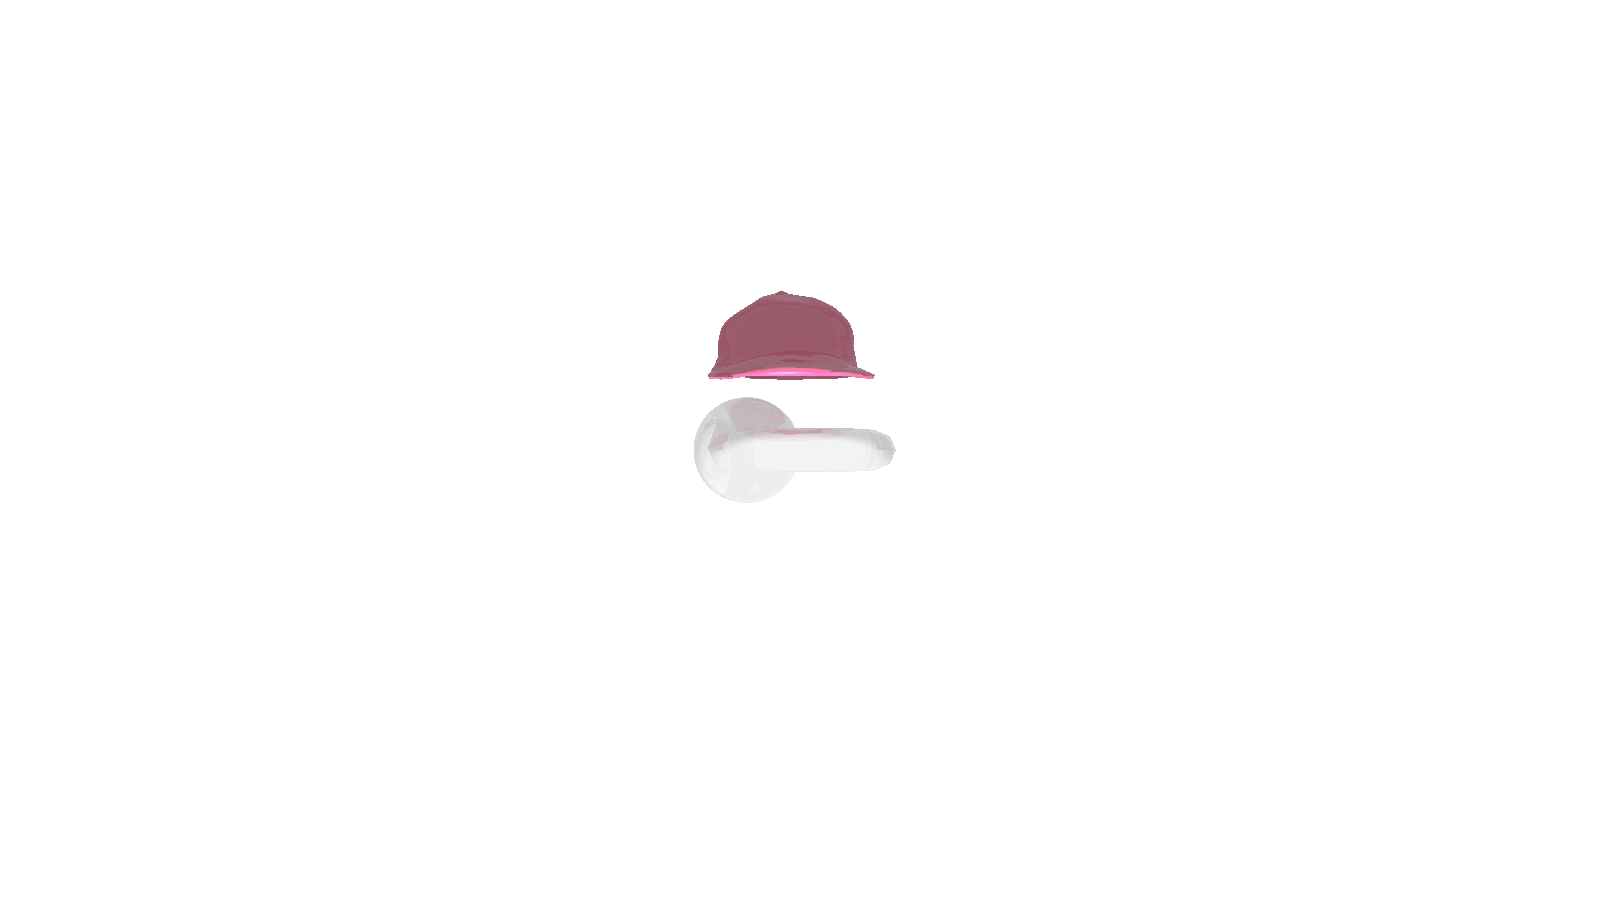
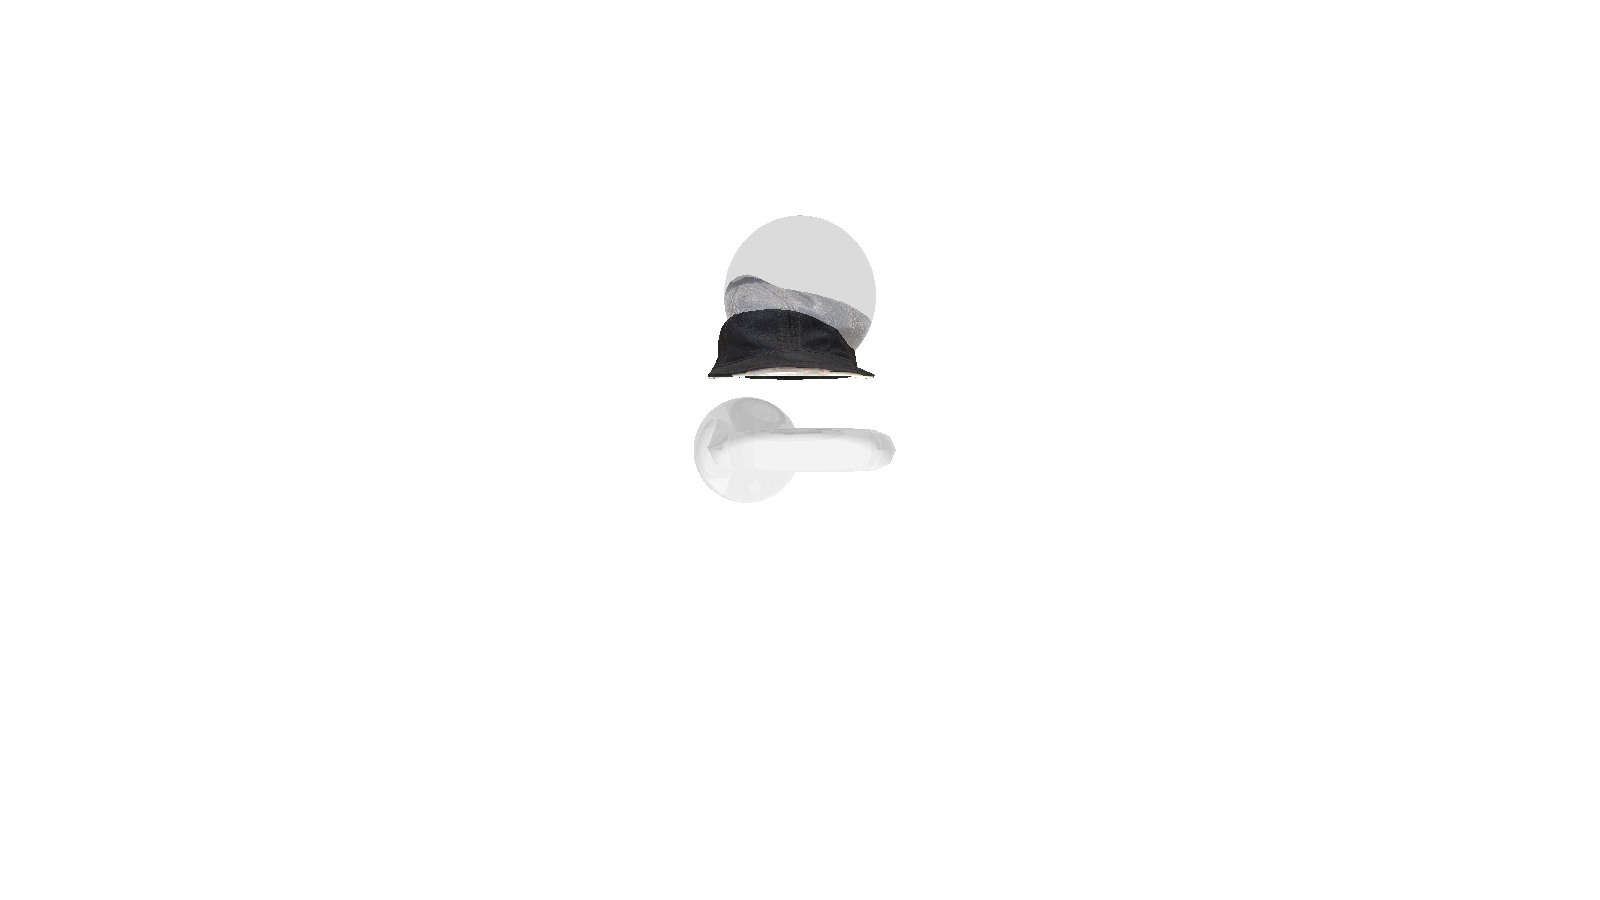
Uploading working textures i think, i just have to see how to properly scale them

Changed region(s): [[0.4375, 0.2178, 0.5625, 0.4356]]

diff --git a/RaytracerV07/src/edu/up/isgc/raytracer/lighting/Light.java b/RaytracerV07/src/edu/up/isgc/raytracer/lighting/Light.java
@@ -1,5 +1,6 @@
 package edu.up.isgc.raytracer.lighting;
 
+import edu.up.isgc.raytracer.Intersection;
 import edu.up.isgc.raytracer.Vector3D;
 import edu.up.isgc.raytracer.shapes.Object3D;
 import edu.up.isgc.raytracer.world.Camera;
@@ -72,8 +73,9 @@ public abstract class Light {
     }
 
 
-    public static Color calculateColor(Vector3D N, Vector3D point, Object3D object) {
+    public static Color calculateColor(Vector3D N, Vector3D point, Object3D object, Intersection intersection) {
         Color finalColor = new Color(0, 0, 0);
+        Color pointColor = intersection.color;
         float ks = 1f;
         float p = 100f;
         float ka = 0.1f;  // Ambient constant
@@ -104,9 +106,9 @@ public abstract class Light {
             }
 
             // Individual components
-            Color ambient  = Light.shine(light.getColor(), object.getColor(), ambientIntensity, true);
-            Color diffuse  = Light.shine(light.getColor(), object.getColor(), lambertian, true);
-            Color specular = Light.shine(light.getColor(), object.getColor(), blinn, false); // specular is independent of object color
+            Color ambient  = Light.shine(light.getColor(), pointColor, ambientIntensity, true);
+            Color diffuse  = Light.shine(light.getColor(), pointColor, lambertian, true);
+            Color specular = Light.shine(light.getColor(), pointColor, blinn, false); // specular is independent of object color
 
             // Combine them
             Color lightContribution = new Color(
@@ -202,6 +204,7 @@ public abstract class Light {
 
         return finalColor;
     }
+
     public abstract Vector3D getDirection(Vector3D point);
     public Vector3D getDirection() { return this.getDirection(Vector3D.getZero()); }
 
@@ -253,70 +256,6 @@ public abstract class Light {
         );
     }
 
-
-
-
-
-    public static Vector3D ericson(Vector3D point, Vector3D v1, Vector3D v2, Vector3D v3, Vector3D n1, Vector3D n2, Vector3D n3) {
-
-        Vector3D e1 = Vector3D.subtract(v1,v2);
-        Vector3D e2 = Vector3D.subtract(v1,v3);
-        Vector3D eP = Vector3D.subtract(v1,point);
-
-        /*
-        Vector3D triNormal = Vector3D.crossProduct(e1,e2).normalize();
-        Vector3D viewDir = Vector3D.subtract(point, Camera.getCameraPosition()).normalize();
-
-         */
-
-        double d11 = e1.dot(e1);
-        double d12 = e1.dot(e2);
-        double d22 = e2.dot(e2);
-        double d1P = e1.dot(eP);
-        double d2P = e2.dot(eP);
-
-        double denominator = (d11*d22)-(d12*d12);
-        if (Math.abs(denominator) < 1e-10) return Vector3D.getZero();
-
-        double v = ( (d22*d1P)-(d12*d2P) )/denominator;
-        double w = ( (d11*d2P)-(d12*d1P) )/denominator;
-        double u = 1.0-v-w;
-
-
-        /*
-
-        v = clamp(v, 0, 1);
-        w = clamp(w, 0, 1);
-        u = clamp(u, 0, 1);
-         */
-        //System.out.println("u: " + u + " v: " + v + " w: " + w);
-
-        /*
-
-        double den = ( (v2.y - v3.y) * (v1.x - v3.x) ) + ( (v3.x - v2.x) * (v1.y - v3.y) );
-        double v = (( (v2.y - v3.y) * (point.x - v3.x) ) + ( (v3.x - v2.x) * (point.y - v3.y) )) / den;
-        double w = (( (v3.y - v1.y) * (point.x - v3.x) ) + ( (v1.x - v3.x) * (point.y - v3.y) )) / den;
-        double u = 1 - v - w;
-
-         */
-
-
-        System.out.println("u:" + u + " v:" + v + " w:" + w);
-        //if(u < 0 || u > 1 || v < 0 || v > 1 || w < 0 || w > 1) return Vector3D.getZero();
-
-        Vector3D uN = n1.scale(u);
-        Vector3D vN = n2.scale(v);
-        Vector3D wN = n3.scale(w);
-
-        //return uN.add(vN).add(wN).normalize();
-        //return n1.scale(u).add(n2.scale(v)).add(n3.scale(w)).normalize();
-        //return n1.add(n2).add(n3).scale(1.0/3.0).normalize();
-
-        double texU = u * n1.x + v * n2.x + w * n3.x;
-        double texV = u * n1.y + v * n2.y + w * n3.y;
-
-        return new Vector3D(texU, texV, 0);
-    }
 
     public static ArrayList<Light> getLights(){return Light.lights;}
 }

diff --git a/RaytracerV07/src/edu/up/isgc/raytracer/Raytracer.java b/RaytracerV07/src/edu/up/isgc/raytracer/Raytracer.java
@@ -11,7 +11,9 @@ import edu.up.isgc.raytracer.shapes.models.Polygon;
 import edu.up.isgc.raytracer.world.Camera;
 import edu.up.isgc.raytracer.world.Scene;
 
+import javax.imageio.ImageIO;
 import java.awt.Color;
+import java.awt.image.BufferedImage;
 import java.io.File;
 import java.io.FileWriter;
 import java.io.IOException;
@@ -21,7 +23,7 @@ import java.io.IOException;
  * Handles scene setup, camera configuration, and image generation.
  */
 public class Raytracer {
-    public static void main(String[] args) {
+    public static void main(String[] args) throws IOException {
         // Image settings
         int width = 1600;
         int height = 900;
@@ -35,13 +37,16 @@ public class Raytracer {
         // Create scene with objects
         Scene scene = new Scene(Color.white);
         scene.addObject(new Sphere(new Vector3D(0.7, 0, 0), 0.7, Color.lightGray,  0.4, 0.7));
-        //scene.addObject(new Sphere(new Vector3D(0, 0, 0), 1, Color.lightGray,  0.4, 1));
+        scene.addObject(new Sphere(new Vector3D(0, 2, 0), 1, Color.lightGray,  0.4, 0.7));
         //scene.addObject(new Sphere(new Vector3D(0, 0, 30), 20, Color.yellow,  0, 0));
         //scene.addObject(new Sphere(new Vector3D(0, 0, 0), 50, Color.CYAN,  2.77, 0));
         //scene.addObject(new Sphere(new Vector3D(0, -1, 0), 1.5, Color.yellow));
         //scene.addObject(new Triangle(new Vector3D(0.4, 0, -3), new Vector3D(0.4, 0.5, -3), new Vector3D(1.1, 0, -3), Color.GREEN));
 
-        Polygon polygon = new Polygon(path, new Color(220, 20, 60), 0.4, 0.3);
+        BufferedImage texture = ImageIO.read(new File("W:\\-UP_PC-\\4th_SEMESTER\\MMCG_FOURTH_SEMESTER_RLG\\RayTracer_Objs\\optimized-3d-capturedphotogrammetry-hat\\textures\\Hat_Albedo.png"));
+
+        //Polygon polygon = new Polygon(path, new Color(220, 20, 60), 0.4, 0.3, texture);
+        Polygon polygon = new Polygon(path, Color.red, 0.0, 0, texture);
         Polygon polygon2 = new Polygon(path2, Color.lightGray, 0.4, 0.7);
 
         polygon.rotate(20, -180, 0);
@@ -54,7 +59,7 @@ public class Raytracer {
 
         // Set up camera at the origin
         Camera camera = new Camera(new Vector3D(0, 0, -6), nearPlane, farPlane);
-        //Light light01 = new Directional(100, Color.pink, new Vector3D(0,10,0), new Vector3D(0, 0, 0));
+        //Light light01 = new Directional(5, Color.white, new Vector3D(0,10,0), new Vector3D(0, 0, 0));
         //Light light02 = new Directional(100, Color.blue, new Vector3D(0,-10,0), new Vector3D(0,0,0));
         Light light03 = new Point(10f, Color.white, new Vector3D(0, -1, -2.5));
         //Light light04 = new Spot(1f, Color.white, new Vector3D(0,-4,0), new Vector3D(0,0,0), 1f, 1f);

diff --git a/RaytracerV07/src/edu/up/isgc/raytracer/shapes/models/Texture.java b/RaytracerV07/src/edu/up/isgc/raytracer/shapes/models/Texture.java
@@ -1,5 +1,7 @@
 package edu.up.isgc.raytracer.shapes.models;
 
+import edu.up.isgc.raytracer.Vector3D;
+
 import java.awt.*;
 import java.util.ArrayList;
 
@@ -15,4 +17,66 @@ public class Texture {
     public static void addTexture(Double[] vertex){ textures.add(vertex); }
     public static ArrayList<Double[]> getTexture(){ return Texture.textures; }
 
+    public static Vector3D ericson(Vector3D point, Vector3D v1, Vector3D v2, Vector3D v3, Vector3D n1, Vector3D n2, Vector3D n3) {
+
+        Vector3D e1 = Vector3D.subtract(v1,v2).scale(-1);
+        Vector3D e2 = Vector3D.subtract(v1,v3).scale(-1);
+        Vector3D eP = Vector3D.subtract(v1,point).scale(-1);
+
+        /*
+        Vector3D triNormal = Vector3D.crossProduct(e1,e2).normalize();
+        Vector3D viewDir = Vector3D.subtract(point, Camera.getCameraPosition()).normalize();
+
+         */
+
+        double d11 = e1.dot(e1);
+        double d12 = e1.dot(e2);
+        double d22 = e2.dot(e2);
+        double d1P = e1.dot(eP);
+        double d2P = e2.dot(eP);
+
+        double denominator = (d11*d22)-(d12*d12);
+        if (Math.abs(denominator) < 1e-10) return Vector3D.getZero();
+
+        double v = ( (d22*d1P)-(d12*d2P) )/denominator;
+        double w = ( (d11*d2P)-(d12*d1P) )/denominator;
+        double u = 1.0-v-w;
+
+
+        /*
+
+        v = clamp(v, 0, 1);
+        w = clamp(w, 0, 1);
+        u = clamp(u, 0, 1);
+         */
+        //System.out.println("u: " + u + " v: " + v + " w: " + w);
+
+        /*
+
+        double den = ( (v2.y - v3.y) * (v1.x - v3.x) ) + ( (v3.x - v2.x) * (v1.y - v3.y) );
+        double v = (( (v2.y - v3.y) * (point.x - v3.x) ) + ( (v3.x - v2.x) * (point.y - v3.y) )) / den;
+        double w = (( (v3.y - v1.y) * (point.x - v3.x) ) + ( (v1.x - v3.x) * (point.y - v3.y) )) / den;
+        double u = 1 - v - w;
+
+         */
+
+
+        //System.out.println("u:" + u + " v:" + v + " w:" + w);
+        //if(u < 0 || u > 1 || v < 0 || v > 1 || w < 0 || w > 1) return Vector3D.getZero();
+        /*
+        Vector3D uN = n1.scale(u);
+        Vector3D vN = n2.scale(v);
+        Vector3D wN = n3.scale(w);
+
+         */
+
+        //return uN.add(vN).add(wN).normalize();
+        //return n1.scale(u).add(n2.scale(v)).add(n3.scale(w)).normalize();
+        //return n1.add(n2).add(n3).scale(1.0/3.0).normalize();
+
+        double texU = u * n1.x + v * n2.x + w * n3.x;
+        double texV = u * n1.y + v * n2.y + w * n3.y;
+
+        return new Vector3D(texU, texV, 0);
+    }
 }

diff --git a/RaytracerV07/src/edu/up/isgc/raytracer/shapes/Triangle.java b/RaytracerV07/src/edu/up/isgc/raytracer/shapes/Triangle.java
@@ -2,6 +2,7 @@ package edu.up.isgc.raytracer.shapes;
 
 import edu.up.isgc.raytracer.optimization.BoundingBox;
 import edu.up.isgc.raytracer.lighting.Light;
+import edu.up.isgc.raytracer.shapes.models.Texture;
 import edu.up.isgc.raytracer.world.Camera;
 import edu.up.isgc.raytracer.Intersection;
 import edu.up.isgc.raytracer.Ray;
@@ -166,7 +167,16 @@ public class Triangle extends Object3D {
                 double t = invDet * vectorQ.dot(v1v0);
                 intersection.point = ray.origin.add(D.scale(t));
                 intersection.distance = t;
-                intersection.color = super.getColor();
+                if(this.getHasTextures()) {
+                    Vector3D uvTexture= Texture.ericson(intersection.point, this.getA(), this.getB(), this.getC(), this.getTA(), this.getTB(), this.getTC());
+                    int texX = (int)(uvTexture.x * (this.getParent().getTextureMap().getWidth() - 1));
+                    int texY = (int)((1 - uvTexture.y) * (this.getParent().getTextureMap().getHeight() - 1)); // flip v if needed
+                    texX = Math.max(0, Math.min(texX, this.getParent().getTextureMap().getWidth() - 1));
+                    texY = Math.max(0, Math.min(texY, this.getParent().getTextureMap().getHeight() - 1));
+                    intersection.color = new Color(this.getParent().getTextureMap().getRGB(texX, texY));
+                }else{
+                    intersection.color = super.getColor();
+                }
                 intersection.setNormal(this.calculateNormalPoint((float) this.u, (float) this.v, (float) this.w));
                 return new Intersection[] {intersection};
             }
@@ -184,11 +194,18 @@ public class Triangle extends Object3D {
 
     public Vector3D calculateNormalPoint(float u, float v, float w){ return this.getnA().scale(this.w).add(this.getnB().scale(this.v)).add(this.getnC().scale(this.u)).normalize(); }
 
-
+/*
     @Override
     public Color addLight(Vector3D point) {
         Vector3D N = this.getnA().scale(this.w).add(this.getnB().scale(this.v)).add(this.getnC().scale(this.u)).normalize();
         return Light.calculateColor(N, point, this);
+    }
+
+ */
+    @Override
+    public Color addLight(Intersection intersection) {
+        Vector3D N = this.getnA().scale(this.w).add(this.getnB().scale(this.v)).add(this.getnC().scale(this.u)).normalize();
+        return Light.calculateColor(N, intersection.point, this, intersection);
     }
 
     @Override

diff --git a/RaytracerV07/src/edu/up/isgc/raytracer/world/Scene.java b/RaytracerV07/src/edu/up/isgc/raytracer/world/Scene.java
@@ -373,7 +373,8 @@ public class Scene {
 
         if (hit != null && hit.object != null) {
             // Get base color of object hit
-            Color localColor = hit.object.getColor(); // Or calculate with lighting, if available
+            //Color localColor = hit.object.getColor(); // Or calculate with lighting, if available
+            Color localColor = hit.color; // Or calculate with lighting, if available
 
             // Recurse
             Color reflectedColor = castReflection(hit.point, hit.getNormal(), hit.object, recursionLimit - 1);
@@ -433,7 +434,8 @@ public class Scene {
             float cosTheta = Math.max(0f, (float)viewDir.dot(normal.normalize()));
             float fresnel = Light.schlick(cosTheta, (float)ignoreShape.refraction);
 
-            Color localColor = hit.object.getColor();
+            //Color localColor = hit.object.getColor();
+            Color localColor = hit.color;
             //Color localColor = ignoreShape.getColor();
             Color refractedColor = castRefraction(hit.point, hit.getNormal(), hit.object, recursionLimit - 1);
 

diff --git a/RaytracerV07/src/edu/up/isgc/raytracer/files/Renderer.java b/RaytracerV07/src/edu/up/isgc/raytracer/files/Renderer.java
@@ -43,7 +43,7 @@ public class Renderer {
 
                 Color pixelColor;
                 if (intersection != null && intersection.color != null && intersection.object != null) {
-                    intersection.color = intersection.object.addLight(intersection.point);
+                    intersection.color = intersection.object.addLight(intersection);
                     pixelColor = intersection.color;
                 } else {
                     pixelColor = Scene.background;

diff --git a/RaytracerV07/src/edu/up/isgc/raytracer/shapes/Sphere.java b/RaytracerV07/src/edu/up/isgc/raytracer/shapes/Sphere.java
@@ -107,10 +107,19 @@ public class Sphere extends Object3D {
     }
 
 
+    /*
     @Override
     public Color addLight(Vector3D point) {
         Vector3D N = this.normal(point);
         return Light.calculateColor(N, point, this);
+    }
+
+     */
+
+    @Override
+    public Color addLight(Intersection intersection) {
+        Vector3D N = this.normal(intersection.point);
+        return Light.calculateColor(N, intersection.point, this, intersection);
     }
 
 

diff --git a/RaytracerV07/src/edu/up/isgc/raytracer/shapes/Object3D.java b/RaytracerV07/src/edu/up/isgc/raytracer/shapes/Object3D.java
@@ -34,7 +34,8 @@ public abstract class Object3D {
      */
     public abstract Intersection[] intersect(Ray ray);
     public abstract String type();
-    public abstract Color addLight(Vector3D point);
+    //public abstract Color addLight(Vector3D point);
+    public abstract Color addLight(Intersection intersection);
     public abstract Object3D returnZero();
 
     public Color getColor() { return color; }
